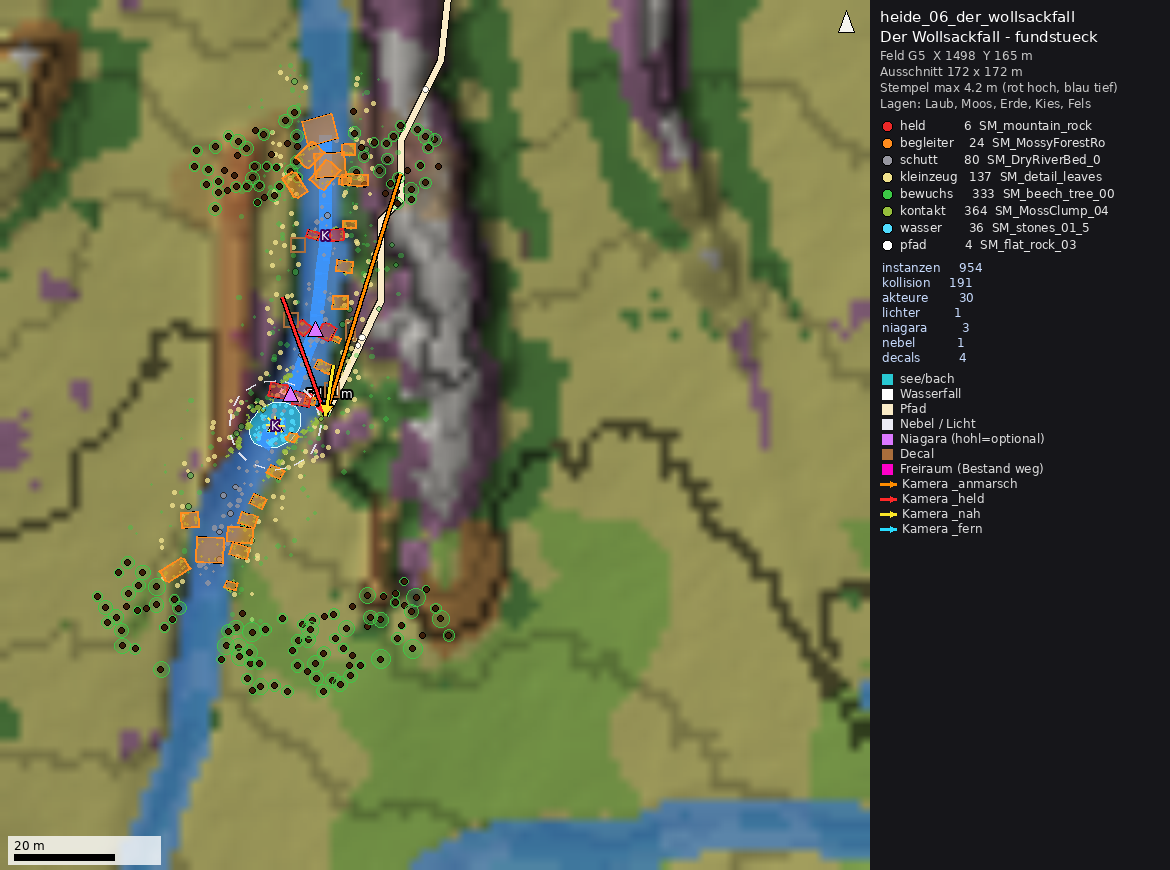
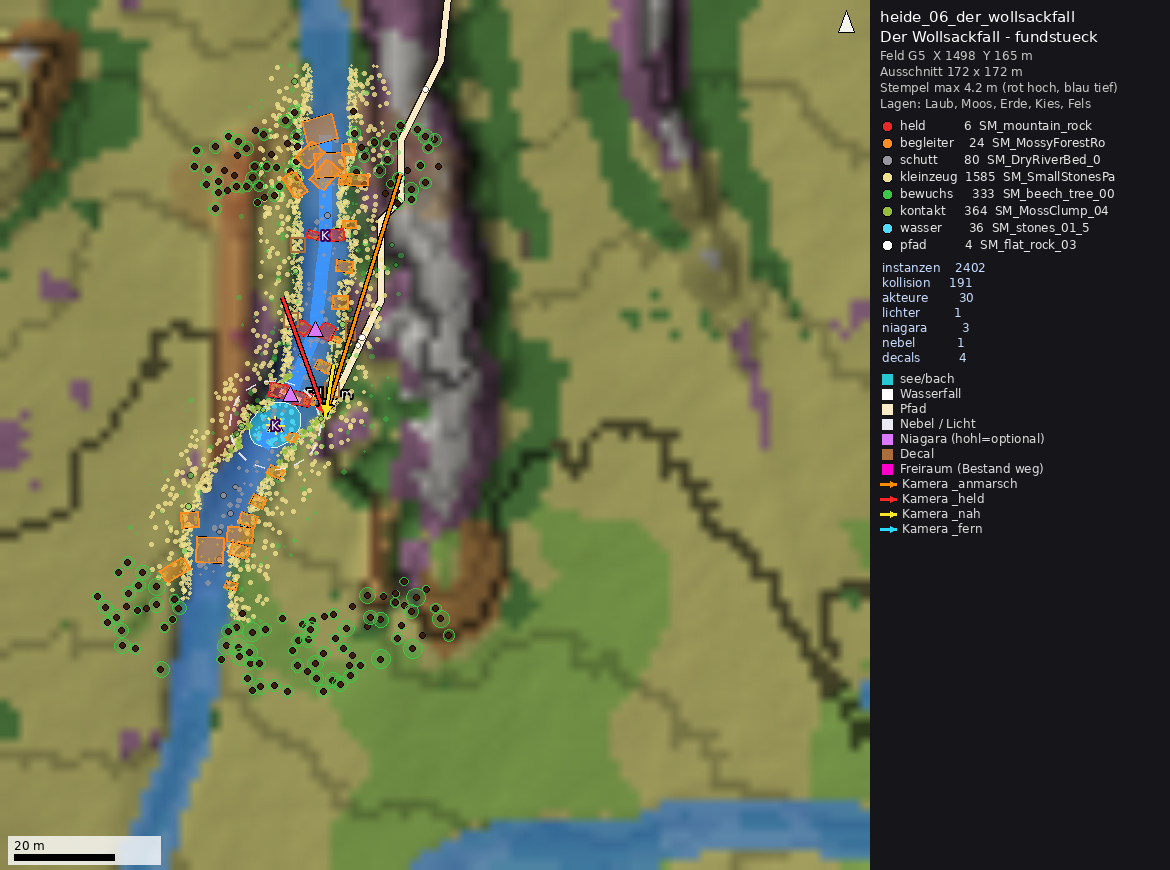
Auftrag 13 Phase 2: Planer Tundra und Heide (je 8 Orte, Inventar 13d, Verdeckung der Fundstuecke gebaut, Testbilder, Russ-Decal)
Claude-Session: https://claude.ai/code/session_012h1LYW6NJeQxhd7im8Kkes

Changed region(s): [[0.1231, 0.0621, 0.3385, 0.7138], [0.8308, 0.1862, 0.9538, 0.2172]]

diff --git a/recherche/antworten/skripte/sehens_tundra/README.md b/recherche/antworten/skripte/sehens_tundra/README.md
@@ -1,0 +1,50 @@
+# sehens_tundra – Sehenswürdigkeiten-Planer Tundra (Auftrag 13, Phase 2)
+
+Baut die 8 Tundra-Orte aus `antworten/sehens/tundra/standorte.json` (inkl. `pfade`) nach `sehens_tundra_regeln.json`
+(Katalog `sehens/tundra/katalog.md`, `asset_bedarf.json`, Entscheidungen Ferat, Inventar 13d) im Lieferformat
+`vorlagen/SEHENS_FORMAT.md`. Muster: `../sehens_bergwald/`, Schema: [`../sehens_lib/PLANER_ANLEITUNG.md`](../sehens_lib/PLANER_ANLEITUNG.md).
+
+```
+python -I recherche/antworten/skripte/sehens_tundra/sehens_tundra.py --daten2m recherche/vorlagen/daten/sehens \
+       --aus <Ordner> [--ort ID ...] [--bild --bild-ordner recherche/antworten/sehens/tundra] [--ohne-sicht]
+python -I sehens_tundra.py --basis <production>      # lokal: 1 m aus export/unreal/welt, Ausgabe dort
+```
+
+Eigener Code (Hooks, alles andere sind Regeln):
+- `gelaende.daemme` → `Stempel.damm` (Wälle/Gräben: Pingo-Risse, Strandwall/Eisschubwall, Uferwälle am Wabenmoor)
+- Zugang: `pfad_cm` endet am Ufer bzw. `pfad.ende_r_m` vor der Mitte (nicht über den Held oder ins Wasser)
+- Fließtreppe: Solifluktionsloben (Lauffläche steigt zur Stirn, Stirn 3,5 m steil) + Anker an den Stirnen
+- Steinringe: ~20 sortierte Ringe (verwackeltes Sechseckgitter, große Steine auf dem Ring, Grus innen)
+- Wabenmoor: Eiskeilpolygone (Voronoi: Randwall, Graben, eingesenkte Mitte, 7 Tümpel als `see`, Grabenanker)
+- Ende: Verdeckung der Fundstücke vom Weg/Pfad mit Stempel + geplanten Stücken (`sehens_lib/verdeckung.py`) → HINWEIS
+
+## Testlauf 2 m (11.10.2026, ~75 s, zwei Läufe byteidentisch)
+
+Planer 0 FEHLER / 0 WARNUNG; Prüfer (orte.json + sw_tundra, mit Daten und Inventar) **0 FEHLER, 0 WARNUNG**, 3 HINWEIS
+(Flechte-Decal-Wunsch ohne Netz, Aufeis-Platten liegen im Bestandsbach, 1 Instanz ganz im Boden).
+
+| Ort | Inst. | Koll. | Akt. | Held/Begl./Schutt/Klein/Bewuchs/Kontakt | Wasser, Effekte | Stempel |
+|---|---|---|---|---|---|---|
+| 01 Pingo | 3 598 | 106 | 8 | 1/7/119/474/2 549/423 | Kratersee smaragd; 3 Decals | 4,6 m |
+| 02 Wanderer | 1 890 | 46 | 8 | 1/10/59/700/775/319 | 4 Decals | 0,8 m |
+| 03 Eiswand | 2 345 | 151 | 51 | 20/31/133/673/1 210/299 | Rinnsal (versickert), Nebel, 9 Decals | 11,3 m |
+| 04 Fließtreppe | 4 204 | 65 | 6 | 1/155/290/1 150/2 045/562 | Schmelzfaden über die Stirnen; 2 Decals | 1,7 m |
+| 05 Trunkener Grund | 2 106 | 96 | 31 | 20/11/23/1 220/390/400 | See moorbraun + Abfluss, Nebel, 4 Decals | 4,1 m |
+| 06 Aufeis | 1 885 | 71 | 42 | 26/16/130/716/626/407 | Quellbach, NS_Stream_Small, 3 Decals | – |
+| 07 Steinringe | 2 615 | 62 | 4 | 178/4/490/744/757/446 | 6 Decals | 5,9 m |
+| 08 Wabenmoor | 4 123 | 59 | 2 | 4/2/60/1 560/1 936/560 | 7 Tümpel; 6 Decals | 3,7 m |
+
+Verdeckung (Wege + Pfade ≤ 400 m, Kern + 4 Proben): Trunkener Grund, Aufeis, **Steinringe** (heute 29–35 Wegpunkte)
+und **Wabenmoor** (heute bis 21) sind mit Plan **vollständig verdeckt** – Steinringe durch Terrasse −1,5 m, alten
+Strandwall +3,8 m (W–N–O) und Eisschubwall +2,4 m (seewärts, Lücke SSO zum Strand); Wabenmoor durch Uferwall/Levee
+mit Weidengebüsch West und Ost (+1,5/+2,4 m) und Böschungssaum Nord.
+
+Materialwünsche (6): `MI_EL_SW_Grundeis`, `_Aufeis`, `_Landkartenflechte`, `_Flechte_Decal`, `_Altschnee`, `_Torf`.
+
+## Grenzen und offene Punkte
+
+- Eiswand: Kopfwand aus Ice-Cliff-Schalen, Schauseite als `+y` angenommen – Prüfbild `_held` entscheidet. Durchbruch
+  durch den Küstenwall senkt bis 11,3 m (Abfluss des Kessels zum Strand). Senken im Kessel = gewollte Setzungsmulden.
+- Aufeis: Platten liegen im Bestandsbach (Prüfer-HINWEIS, gewollt); „Arctic Cliffs“ (größere Platten) bleibt Wunsch.
+- Wollgras fehlt im Bestand → weiße Windröschen ×0,4 zwischen Binsen. Brandung fehlt (Wind-Cue).
+- `senke_begruendung` an Pingo (Kratersee), Eiswand, Trunkener Grund, Steinringe (Strandwall-Swale), Wabenmoor (Polygonmitten).

diff --git a/recherche/antworten/skripte/sehens_heide/README.md b/recherche/antworten/skripte/sehens_heide/README.md
@@ -1,0 +1,46 @@
+# sehens_heide – Sehenswürdigkeiten-Planer Heide (Auftrag 13, Phase 2)
+
+Baut die 8 Heide-Orte aus `antworten/sehens/heide/standorte.json` (keine `pfade`; Zugänge aus `pfad_cm`) nach
+`sehens_heide_regeln.json` (Katalog `sehens/heide/katalog.md`, `asset_bedarf.json`, Entscheidungen Ferat, Inventar 13d)
+im Lieferformat `vorlagen/SEHENS_FORMAT.md`. Muster: `../sehens_bergwald/`, Schema: [`../sehens_lib/PLANER_ANLEITUNG.md`](../sehens_lib/PLANER_ANLEITUNG.md).
+
+```
+python -I recherche/antworten/skripte/sehens_heide/sehens_heide.py --daten2m recherche/vorlagen/daten/sehens \
+       --aus <Ordner> [--ort ID ...] [--bild --bild-ordner recherche/antworten/sehens/heide] [--ohne-sicht]
+```
+
+Eigener Code: `gelaende.daemme` (Kesselkranz, Parabeldüne, Kesselrand, Felsrahmen, Klammufer), Zugang endet vor dem Held
+bzw. am Ufer (`pfad.ende_r_m`), Verdeckungsprüfung der Fundstücke (`sehens_lib/verdeckung.py`). Alles andere sind Regeln
+(Tor-Stapel mit `auf_gruppe` + `z_bezug oben:`).
+
+**Ferat (Brushify abgelehnt):** Ginster = Sanddorn (`MI_EL_SW_Ginster` grün, `MI_EL_SW_Ginstergold` **gelb getönt** – auch
+auf weißen Windröschen als Blütenköpfe), Wacholder = schlank skalierte Jungkiefern (`MI_EL_SW_Wacholder`), Wollgras =
+Binsen + weiße Windröschen ×0,4. Eigene Decal-Textur `sehens/heide/decal_russ.png` (+ `_n`) für den alten Heidebrand
+(Materialwunsch `MI_EL_SW_Russ_Decal`, Decal `optional` bis Ferat es anlegt).
+
+## Testlauf 2 m (11.10.2026, ~75 s, zwei Läufe byteidentisch)
+
+Planer 0 FEHLER / 0 WARNUNG; Prüfer **0 FEHLER, 0 WARNUNG**, 3 HINWEIS (Russ-Decal noch nicht im Inventar).
+
+| Ort | Inst. | Koll. | Akt. | Held/Begl./Schutt/Klein/Bewuchs/Kontakt | Wasser, Effekte | Stempel |
+|---|---|---|---|---|---|---|
+| 01 Graue Burg | 3 434 | 149 | 13 | 5/6/160/700/957/1 608 | Felsschüssel-Decal | 2,0 m |
+| 02 Ginstergold | 6 092 | 2 | 2 | 1/120/8/1 821/3 629/515 | Russ-Decals (eigene Textur) | – |
+| 03 Wacholderprozession | 1 585 | 3 | 48 | 1/47/3/645/701/236 | – | 1,2 m |
+| 04 Kolk | 3 016 | 22 | 11 | 1/105/22/1 783/858/258 | Kolk schwarz_spiegel, Nebel | 2,2 m |
+| 05 Wackelstein | 2 034 | 39 | 14 | 2/12/58/450/661/865 | Felsschüssel-Decal | 3,2 m |
+| 06 Wollsackfall | 2 402 | 191 | 30 | Fallstufen/Klammtor/… | Klammbach (3 Stufen), Gumpe, Fall, Auslauf; NS_Waterfall_Small, NS_Impact_Small, NS_Stream_Small; Spot, Nebel | 4,0 m |
+| 07 Totengrund | 4 716 | 29 | 4 | 3/7/40/380/3 861/… | – | 4,9 m |
+| 08 Windkante | 2 054 | 14 | 17 | 3/14/54/426/1 290/284 | Rippel-Decals (Coast & Dunes) | 4,0 m |
+
+Verdeckung mit Plan: Wackelstein, Totengrund, Windkante **vollständig verdeckt**; Kolk Kern verdeckt, Ost/West-Probe
+von 3 bzw. 1 Wegpunkt (wie heute); Wollsackfall Kern 15/124 Wegpunkten (heute 51) – Sicht kommt in der Bachachse von
+Norden und Süden/Südwesten; Klammtore aus Riesen-Wollsäcken und dichte Gehölzsäume (Klammkopf, Ausgang) mindern sie.
+
+## Grenzen und offene Punkte
+
+- Wollsackfall ersetzt auf ~100 m den Bestandsbach `B_R2_R_P3_P0_01` (Ort IST dieses Wasser): Sohle in drei Stufen
+  (absolute Höhen aus den 2-m-Daten – im 1-m-Lauf prüfen), Wassermaterial nur als `material_hinweis`.
+- Tor-Stapel und Wackelstein ruhen per `z_bezug` aufeinander (z_frei) – Fugen im Editorbild prüfen.
+- `senke_begruendung`: Burg (Verwitterungsschüsseln), Wacholder (Schlatts), Kolk (Regenmoor), Wackelstein (Felsenkessel),
+  Totengrund (Nivationsmulde), Windkante (Deflationsmulde).
